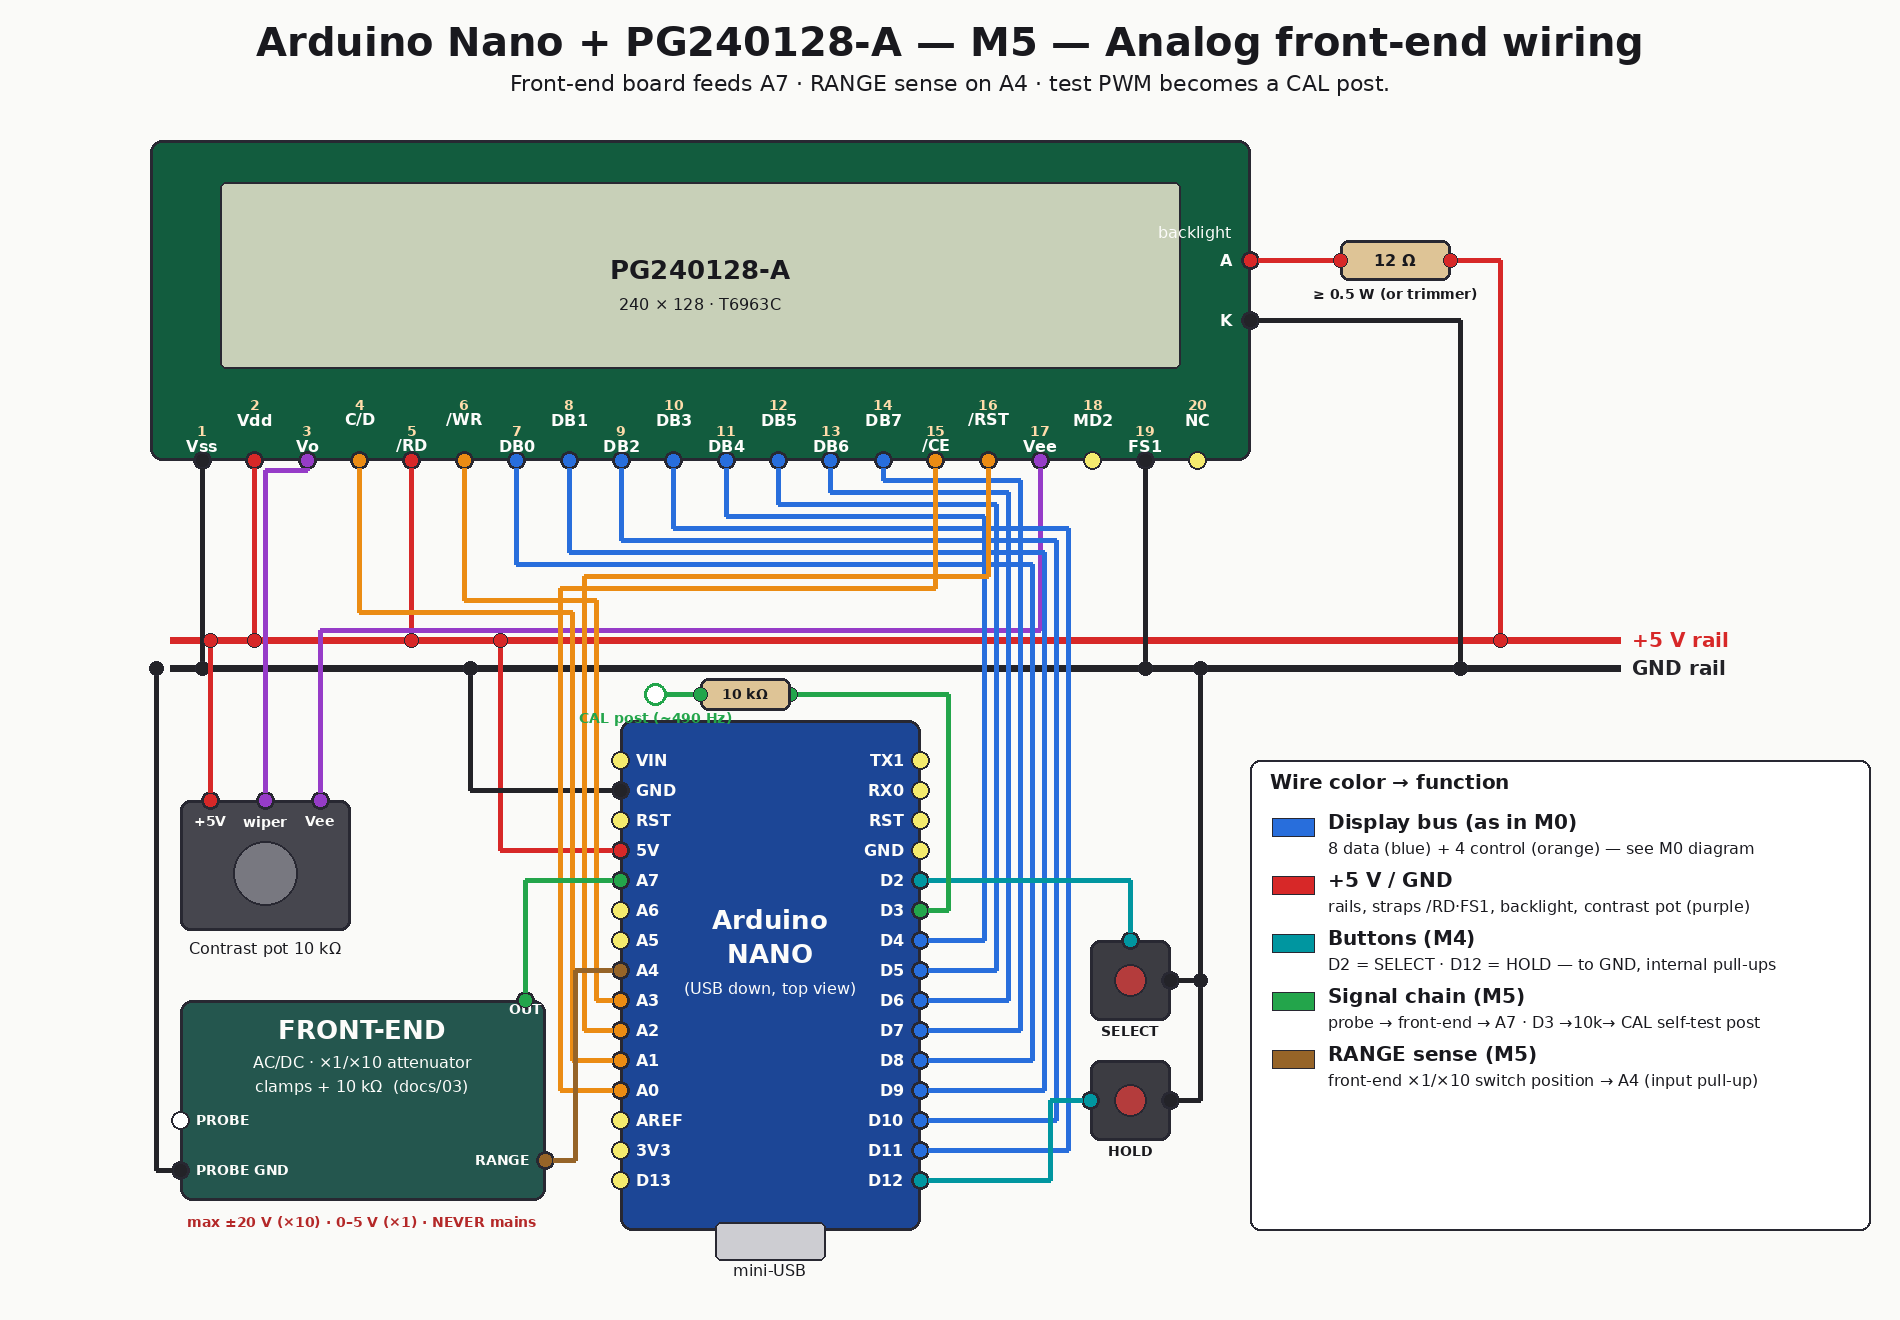
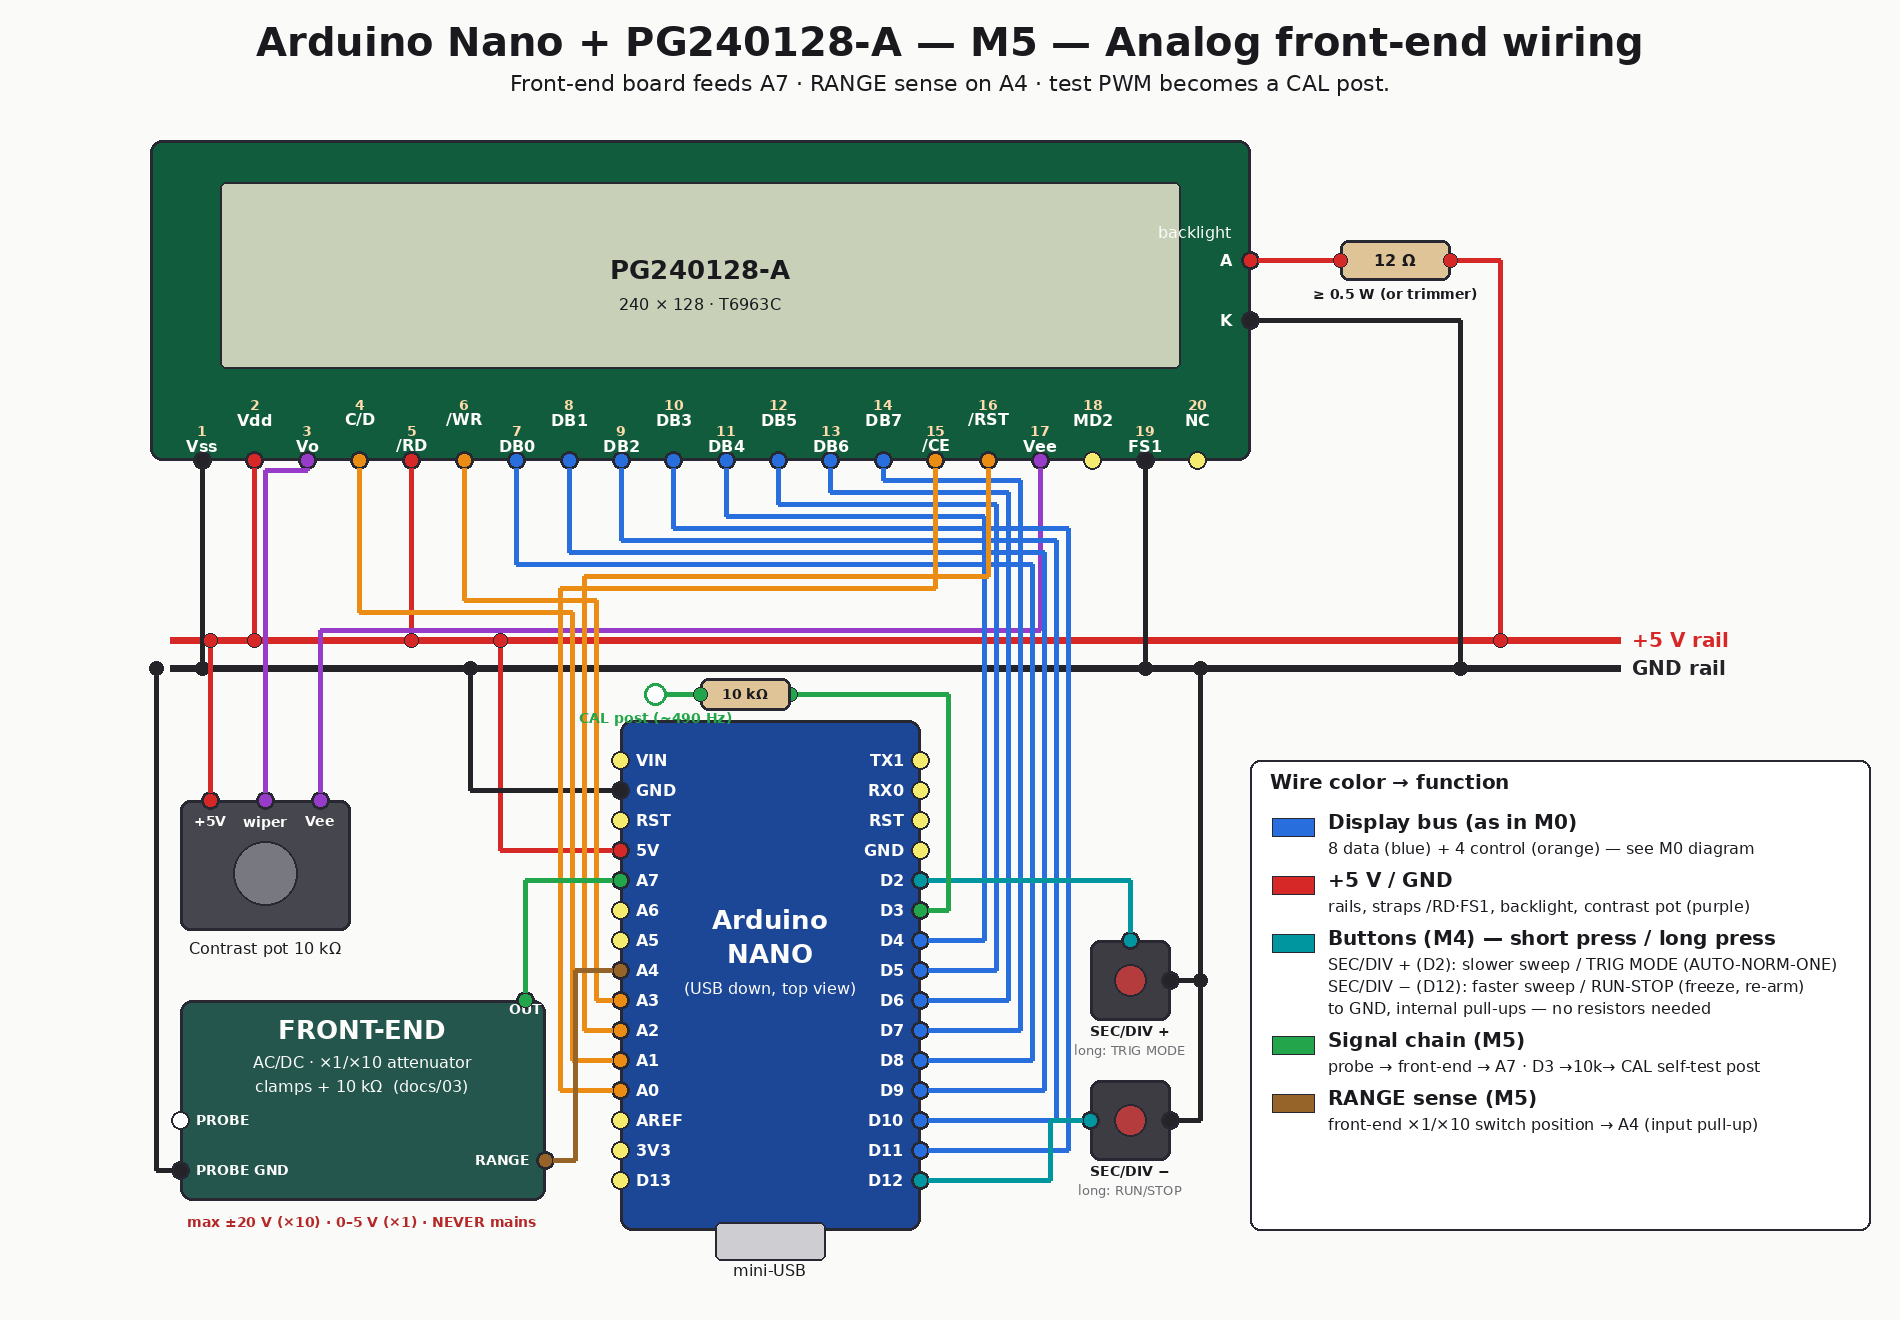
Scope-style button naming: SEC/DIV +/- with RUN/STOP and TRIG MODE
Diagrams M4+ show the primary function on each button and the
long-press secondary in small text, with a short/long legend.
Firmware comments and pin defines renamed to match; on-screen
frozen state now reads STOP (RUN/STOP convention). Uploaded.

Changed region(s): [[0.6521, 0.6833, 0.9626, 0.8697], [0.5589, 0.7765, 0.6211, 0.9008]]

diff --git a/tools/wiring_diagrams.py b/tools/wiring_diagrams.py
@@ -5,7 +5,7 @@ contrast pot, backlight). Each milestone adds its hardware on top:
   M1  + test signal   D3 -[10k]-> A7
   M2  (software only — banner, wiring = M1)
   M3  (software only — banner, wiring = M1)
-  M4  + buttons       D2=SELECT, D12=HOLD (to GND, internal pull-ups)
+  M4  + buttons       SEC/DIV + (D2), SEC/DIV - (D12) to GND
   M5  + front-end board -> A7, RANGE sense -> A4, test loop becomes CAL post
   M6  + CH2 probe -> A6
 
@@ -44,6 +44,7 @@ F_PINSM  = load_font(14, bold=True)
 F_LEG    = load_font(20, bold=True)
 F_LEGSM  = load_font(16)
 F_BANNER = load_font(26, bold=True)
+F_TINY   = load_font(13)
 
 COL_5V    = (215, 40, 40)
 COL_GND   = (35, 35, 40)
@@ -99,7 +100,7 @@ MILESTONES = {
     3: ("wiring-m3-fast-sampling.png", "M3 — Fast sampling (77 kSps)",
         "Software-only milestone: wiring identical to M1."),
     4: ("wiring-m4-ui-buttons.png", "M4 — UI wiring",
-        "M1 + two buttons to GND: D2 = SELECT, D12 = HOLD (internal pull-ups; D13 unusable as input: onboard LED)."),
+        "M1 + buttons SEC/DIV + (D2) and SEC/DIV − (D12) to GND — small text = long-press function. (D13 unusable: onboard LED)."),
     5: ("wiring-m5-front-end.png", "M5 — Analog front-end wiring",
         "Front-end board feeds A7 · RANGE sense on A4 · test PWM becomes a CAL post."),
     6: ("wiring-m6-dual-channel.png", "M6 — Dual channel wiring",
@@ -269,24 +270,29 @@ def draw_test_signal(d, nano_xy, as_cal=False):
 
 
 def draw_buttons(d, nano_xy):
-    """M4+: SELECT on D2, HOLD on D13, both to GND (internal pull-ups)."""
-    for (bx0, by0, label) in ((1090, 940, "SELECT"), (1090, 1060, "HOLD")):
+    """M4+: SEC/DIV + on D2, SEC/DIV - on D12 (to GND, internal pull-ups).
+    Small text under each button = its long-press secondary function."""
+    buttons = ((1090, 940,  "SEC/DIV +", "long: TRIG MODE"),
+               (1090, 1080, "SEC/DIV −", "long: RUN/STOP"))
+    for (bx0, by0, label, sub) in buttons:
         d.rounded_rectangle((bx0, by0, bx0 + 80, by0 + 80), radius=10,
                             fill=COL_BTN_BODY, outline=COL_OUTLINE, width=3)
         d.ellipse((bx0 + 24, by0 + 24, bx0 + 56, by0 + 56),
                   fill=(180, 60, 60), outline=COL_OUTLINE, width=2)
         d.text((bx0 + 40, by0 + 86), label, font=F_PINSM, fill=COL_TEXT, anchor="mt")
+        d.text((bx0 + 40, by0 + 104), sub, font=F_TINY, fill=(110, 110, 116),
+               anchor="mt")
 
     d2 = nano_xy["D2"]
-    draw_pin(d, 1130, 940)                       # SELECT top pin
+    draw_pin(d, 1130, 940)                       # SEC/DIV + top pin
     wire(d, [d2, (1130, d2[1]), (1130, 940)], COL_BTN)
     d12 = nano_xy["D12"]
-    draw_pin(d, 1090, 1100)                      # HOLD left pin
-    wire(d, [d12, (1050, d12[1]), (1050, 1100), (1090, 1100)], COL_BTN)
+    draw_pin(d, 1090, 1120)                      # SEC/DIV - left pin
+    wire(d, [d12, (1050, d12[1]), (1050, 1120), (1090, 1120)], COL_BTN)
     # shared GND return
     draw_pin(d, 1170, 980)
-    draw_pin(d, 1170, 1100)
-    wire(d, [(1170, 1100), (1200, 1100), (1200, 980)], COL_GND)
+    draw_pin(d, 1170, 1120)
+    wire(d, [(1170, 1120), (1200, 1120), (1200, 980)], COL_GND)
     wire(d, [(1170, 980), (1200, 980), (1200, RAIL_GND_Y)], COL_GND)
 
 
@@ -380,8 +386,10 @@ def draw_legend(d, m):
             entries.append((COL_SIG, "Test signal (M1)", [
                 "D3 →[10 kΩ]→ A7 — the Nano probes its own ~490 Hz PWM"]))
         if m >= 4:
-            entries.append((COL_BTN, "Buttons (M4)", [
-                "D2 = SELECT · D12 = HOLD — to GND, internal pull-ups"]))
+            entries.append((COL_BTN, "Buttons (M4) — short press / long press", [
+                "SEC/DIV + (D2): slower sweep / TRIG MODE (AUTO-NORM-ONE)",
+                "SEC/DIV − (D12): faster sweep / RUN-STOP (freeze, re-arm)",
+                "to GND, internal pull-ups — no resistors needed"]))
         if m >= 5:
             entries.append((COL_SIG, "Signal chain (M5)", [
                 "probe → front-end → A7 · D3 →10k→ CAL self-test post"]))

diff --git a/docs/05-build-log.md b/docs/05-build-log.md
@@ -8,7 +8,7 @@ Real-hardware progress diary. Newest entries first.
 
 **Design fix caught during M4 prep:** the plan had the HOLD button on D13, but the Nano's onboard LED loads that pin (~1.9 V against the internal pull-up = permanent LOW) — a D13 button can never work. **HOLD → D12; the M5 RANGE sense → A4.** Diagrams and docs updated.
 
-**M4 (`firmware/scope_ui/`) compiled (13 240 B flash / 1 129 B RAM) and uploaded**: 200-px waveform + 40-px readout panel (time base, mode, state, Vpp, frequency), dotted graticule, trigger marker, and two buttons — SELECT (D2): short = time base, long = trigger mode AUTO/NORM/ONE; HOLD (D12): freeze / re-arm. Runs without buttons wired (defaults AUTO). Vpp assumes Vcc = 5.00 V until the M5 calibration.
+**M4 (`firmware/scope_ui/`) compiled (13 240 B flash / 1 129 B RAM) and uploaded**: 200-px waveform + 40-px readout panel (time base, mode, state, Vpp, frequency), dotted graticule, trigger marker, and two buttons with oscilloscope naming — SEC/DIV + (D2): slower sweep, long press = trigger mode AUTO/NORM/ONE; SEC/DIV − (D12): faster sweep, long press = RUN/STOP (freeze / re-arm). Runs without buttons wired (defaults AUTO). Vpp assumes Vcc = 5.00 V until the M5 calibration.
 
 Also added [docs/06-components.md](06-components.md) — the full component list to finish the project (~€3.20 mandatory for M4+M5).
 